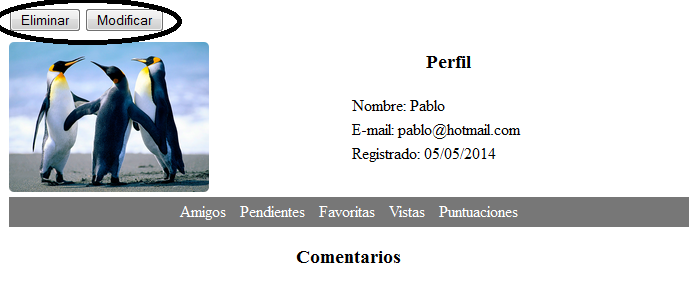
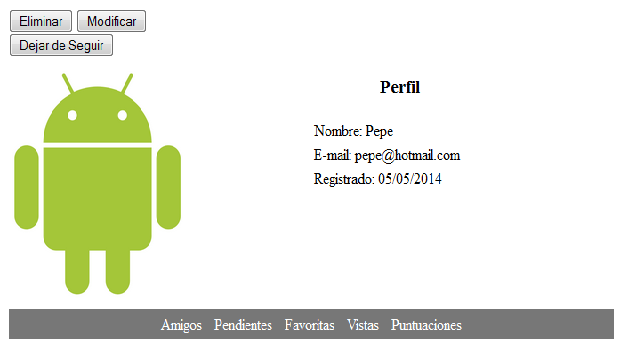
21/05/2014
amigo.png y manual.php

diff --git a/HTML/manual.php b/HTML/manual.php
@@ -101,7 +101,7 @@
 				<h4>Usuario</h4>
 				<p>Para ser amigo de alguien, debemos entrar en su perfil y darle al botón de añadir como amigo. Él no te agregará pero tú lo seguirás, similar a Twitter.</p>
 				<p>Una vez accedido al perfil de un amigo, se nos mostrará su información pública, como nombre, email, sus películas pendientes...</p>
-				<p>El administrador dispondrá de dos botones auxiliares para modificar la información del usuario o para eliminarlo.</p>
+				<p>El administrador dispondrá de dos botones auxiliares para modificar la información del usuario o para eliminarlo. Además cualquier usuario puede dejar de ser amigo mediante el botón |Dejar de seguir|</p>
 				<img src="img_manual/amigo.png" alt="">
 			</article>
 		</section>
